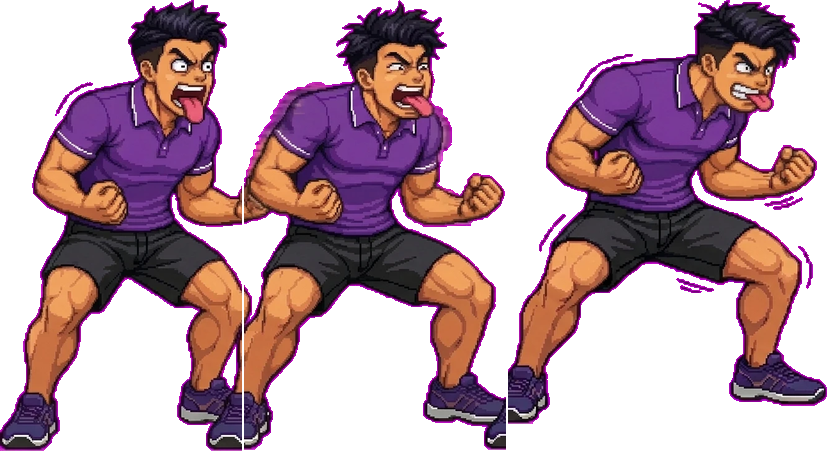
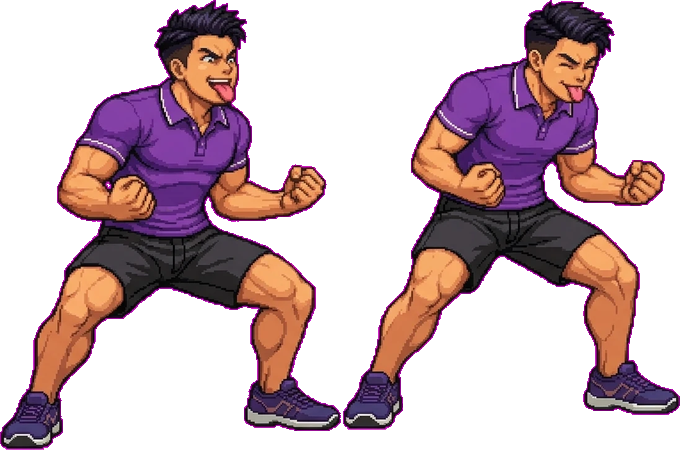
paso lunar y ajustes de Pingordy y El Fiel

diff --git a/game-v4.js b/game-v4.js
@@ -71,14 +71,14 @@ function buildKent(atlas){for(const [name,m] of Object.entries(KENT_ATLAS)){cons
 // El Fiel's ultimate: backswing/swing frames (two variants), stored at 2x game size like Kent's atlas.
 const FIEL_SUPER_ATLAS={"backA":[0,0,239,505,0.683],"swingA":[241,91,394,414,0.395],"backB":[637,120,228,385,0.578],"swingB":[867,136,369,369,0.425]};
 // Characters drawn from their own atlas (Kent, Pingordy): same pose logic, one named frame per state.
-const PING_ATLAS={"mid":[0,0,405,632,0.187],"charge":[407,0,425,485,0.47],"introB":[834,0,231,457,0.495],"airKick":[1067,0,244,439,0.509],"hurt":[1313,0,400,437,0.373],"idle":[1715,0,192,434,0.427],"win":[1909,0,398,432,0.485],"walkA":[0,634,246,429,0.537],"walkB":[248,634,260,429,0.535],"jumpDown":[510,634,246,428,0.41],"introA":[758,634,428,428,0.524],"walkC":[1188,634,191,428,0.479],"guard":[1381,634,311,413,0.453],"jumpUp":[1694,634,261,413,0.484],"punch":[1957,634,353,410,0.409],"overheadPrep":[0,1065,257,395,0.512],"superA":[259,1065,291,392,0.485],"flipSpin":[552,1065,372,391,0.489],"superB":[926,1065,299,388,0.623],"special":[1227,1065,298,365,0.453],"crouch":[1527,1065,237,354,0.478],"low":[1766,1065,224,302,0.562],"sweep":[1992,1065,343,269,0.25],"down":[0,1462,510,113,0.496]};
+const PING_ATLAS={"charge":[0,0,425,485,0.47],"mid":[427,0,301,469,0.187],"introB":[730,0,231,457,0.495],"airKick":[963,0,427,445,0.31],"moon0":[1392,0,225,438,0.599],"moon3":[1619,0,170,438,0.47],"hurt":[1791,0,400,437,0.373],"moon1":[2193,0,143,437,0.435],"moon2":[0,487,194,437,0.533],"idle":[196,487,192,434,0.427],"moon4":[390,487,222,434,0.593],"win":[614,487,398,432,0.485],"walkA":[1014,487,246,429,0.537],"walkB":[1262,487,260,429,0.535],"jumpDown":[1524,487,246,428,0.41],"introA":[1772,487,428,428,0.524],"walkC":[2202,487,191,428,0.479],"guard":[0,926,311,413,0.453],"jumpUp":[313,926,261,413,0.484],"punch":[576,926,353,410,0.409],"overheadPrep":[931,926,257,395,0.512],"superA":[1190,926,291,392,0.485],"flipSpin":[1483,926,372,391,0.489],"superB":[1857,926,299,388,0.623],"lowPunch":[0,1341,349,366,0.288],"special":[351,1341,298,365,0.453],"crouch":[651,1341,237,354,0.478],"low":[890,1341,224,302,0.562],"sweep":[1116,1341,343,269,0.25],"down":[1461,1341,510,113,0.496]};
 // Lancha's jump frames: crouch, up, dive (double jump), prone (landing after the dive), fall.
 const LJ_ATLAS={"up":[0,0,249,428,0.472],"fall":[251,0,272,403,0.55],"crouch":[525,0,232,332,0.47],"dive":[759,0,471,315,0.444],"prone":[1232,0,357,200,0.426]};
 const LC_ATLAS={"flex":[0,0,256,445,0.533],"bite":[258,0,207,441,0.441],"chew":[467,0,221,438,0.42],"ready":[690,0,241,430,0.431]};
 const IE_ATLAS={"charge":[0,0,267,686,0.493],"overheadHit":[269,0,362,606,0.59],"superB":[633,0,321,554,0.474],"flipSpin":[956,0,343,469,0.531],"introB":[1301,0,260,456,0.445],"walkB":[1563,0,256,444,0.516],"walkC":[1821,0,227,444,0.464],"walkA":[2050,0,256,440,0.517],"introA":[0,688,227,438,0.523],"idle":[229,688,300,436,0.499],"superA":[531,688,268,433,0.554],"overheadPrep":[801,688,241,431,0.463],"punch":[1044,688,345,430,0.43],"chargeA":[1391,688,287,426,0.51],"chargeB":[1680,688,361,426,0.504],"special":[2043,688,337,410,0.452],"jumpDown":[0,1128,289,403,0.53],"jumpUp":[291,1128,217,395,0.525],"hurt":[510,1128,398,378,0.411],"crouch":[910,1128,258,345,0.487],"low":[1170,1128,274,332,0.557],"sweep":[1446,1128,459,319,0.337],"down":[1907,1128,415,151,0.528]};
 // El Fiel's recharge frames (shaking squat, tongue out); stored with Lancha's recharge frames.
-const FC_ATLAS={"tremA":[0,0,242,451,0.559],"tremB":[244,0,262,450,0.459],"tremC":[508,0,319,424,0.504]};
-const SETS=[null,null,{frames:kentFrames,scale:.85,extra:{introA:1.15,introB:1.15},charge:['overheadPrep','overheadHit']},{frames:pingFrames,scale:1,extra:{introA:1.2,introB:1.2,win:1.2},charge:['introA','charge']},{frames:ieFrames,scale:1,extra:{introA:1.15,introB:1.15},charge:['chargeA','chargeB']}];
+const FC_ATLAS={"tremB":[0,0,341,450,0.522],"tremA":[343,0,337,430,0.526]};
+const SETS=[null,null,{frames:kentFrames,scale:.85,extra:{introA:1.15,introB:1.15},charge:['overheadPrep','overheadHit']},{frames:pingFrames,scale:1,extra:{introA:1.2,introB:1.2,win:1.2},charge:['introA','charge'],lowPunch:{frame:'lowPunch'}},{frames:ieFrames,scale:1,extra:{introA:1.15,introB:1.15},charge:['chargeA','chargeB']}];
 const FALLBACK={airKick:'flipSpin',flipTuck:'flipSpin',overheadHit:'punch',overheadPrep:'idle',crouchHurt:'hurt',landing:'crouch',special:'mid',superB:'superA',introB:'introA',mid:'punch',guard:'idle'};
 function resolvePose(id,name){const f=SETS[id].frames;while(!f[name]&&FALLBACK[name])name=FALLBACK[name];return name}
 function buildFielSuper(atlas){for(const [name,m] of Object.entries(FIEL_SUPER_ATLAS)){const c=document.createElement('canvas');c.width=m[2];c.height=m[3];c.getContext('2d').drawImage(atlas,m[0],m[1],m[2],m[3],0,0,m[2],m[3]);fielSuper[name]={image:c,height:m[3],anchor:m[4]}}}
@@ -274,10 +274,10 @@ function kentPose(p){const m=p.move;
  if((state==='round'||state==='match')&&p.hp>0&&p.hp===Math.max(...players.map(k=>k.hp)))return{kent:SETS[p.id].frames.win?'win':'introB'};
  if(cinematic()&&superFX.owner===p)return{kent:SETS[p.id].frames.charge?'charge':'superA'};
  if(p.action==='roll')return{kent:kentRollFrame(p)};
- if(p.action==='dash'){if(p.id===3&&SETS[3].frames.walkC){const seq=['walkA','walkC','walkB'],i=Math.floor(p.age*10)%3;return{kent:seq[p.dashDir===p.face?(3-i)%3:i]}}return{kent:Math.floor(tick*20)%2?'walkA':'walkB'}}
+ if(p.action==='dash'){if(p.id===3&&SETS[3].frames.moon0){const i=Math.floor(p.age*14)%5;return{kent:'moon'+(p.dashDir===p.face?(5-i)%5:i)}}if(p.id===3&&SETS[3].frames.walkC){const seq=['walkA','walkC','walkB'],i=Math.floor(p.age*10)%3;return{kent:seq[p.dashDir===p.face?(3-i)%3:i]}}return{kent:Math.floor(tick*20)%2?'walkA':'walkB'}}
  if(p.action==='attack'){const total=m.startup+m.active+m.recovery,preparing=p.age<m.startup*.57,recovering=p.age>total-m.recovery*.65;
   if(preparing||recovering){if(m.crouched)return{kent:'crouch'};if(p.y>0)return{kent:p.vy>0?'jumpUp':'jumpDown'};if(['overhead','charged'].includes(p.moveId)&&!recovering)return{kent:'overheadPrep'};return{kent:'idle'}}
-  if(m.frame==='punch')return{kent:'punch'};if(m.frame==='mid')return{kent:'mid'};if(m.frame==='low')return{kent:'low'};if(m.frame==='sweep')return{kent:'sweep'};if(m.frame==='air')return{kent:'airKick'};if(m.frame==='overhead')return{kent:'overheadHit'};
+  if(m.frame==='punch')return{kent:'punch'};if(m.frame==='mid')return{kent:'mid'};if(m.frame==='low'){const lp=SETS[p.id].lowPunch;return lp?{kent:lp.frame,sy:lp.squash}:{kent:'low'}}if(m.frame==='sweep')return{kent:'sweep'};if(m.frame==='air')return{kent:'airKick'};if(m.frame==='overhead')return{kent:'overheadHit'};
   return{kent:p.moveId==='super'?(Math.floor(p.age*9)%2?'superB':'superA'):'special'}}
  if(p.action==='hurt')return{kent:p.crouched?'crouchHurt':'hurt'};if(p.action==='down')return{kent:'down'};
  if(p.landTime>0)return{kent:'landing'};if(p.guard&&!p.crouched)return{kent:'guard'};if(p.crouched||p.stance>.5)return{kent:'crouch'};
@@ -290,12 +290,12 @@ function lanchaJumpPose(p){if(state!=='fight')return null;if(p.proneTime>0)retur
  if(p.landTime>0&&p.action==='idle'&&p.y===0)return{lj:'crouch'};return null}
 // Recharge pose per character: Lancha eats a burger (own frames), Pingordy/Kent alternate their power-up frames, El Fiel flexes.
 function chargePose(p){if(p.id===0&&lcFrames.ready){const t=Math.max(0,p.age-.25)%1.3;return{lc:p.age<.25?'ready':t<.4?'bite':t<.8?'chew':'flex'}}
- if(p.id===1&&lcFrames.tremA)return{lc:['tremA','tremB','tremC','tremB'][p.age<.3?0:Math.floor(p.age*8)%4]};
+ if(p.id===1&&lcFrames.tremA)return{lc:['tremA','tremB'][p.age<.3?0:Math.floor(p.age*6)%2]};
  if(p.id===1)return{show:p.age<.3?2:(Math.floor((p.age-.3)*2.5)%2?2:3),scale:.82};
  const c=SETS[p.id]&&SETS[p.id].charge;if(c)return{kent:resolvePose(p.id,c[Math.floor(p.age*3)%2]),scale:1};return null}
 function pose(p){if(p.action==='charge'){const w=chargePose(p);if(w)return w}if(p.id===1&&p.action==='attack'&&p.moveId==='super'&&fielSuper.backA){const w=fielSuperPose(p);if(w)return w}if(SETS[p.id]&&SETS[p.id].frames.idle){const w=kentPose(p);w.kent=resolvePose(p.id,w.kent);return w}if(p.id===0&&ljFrames.up){const w=lanchaJumpPose(p);if(w)return w}if(state==='intro'&&phaseTime>.9)return{show:2+(Math.floor(introElapsed*(p.id?1.4:2.2))%2)};if((state==='round'||state==='match')&&p.hp>0&&p.hp===Math.max(...players.map(k=>k.hp)))return{show:3};if(p.action==='ko')return{base:5};if(cinematic()&&superFX.owner===p)return{follow:3};if(p.action==='attack'){const m=p.move;const total=m.startup+m.active+m.recovery;const preparing=p.age<m.startup*.57,recovering=p.age>total-m.recovery*.65;if(preparing||recovering){if(m.crouched)return{extra:0};if(p.y>0)return{show:p.vy>0?0:1};if(['overhead','charged'].includes(p.moveId)&&!recovering)return{follow:0};return{base:0}}if(m.frame==='punch')return{base:2};if(m.frame==='mid')return{extra:3};if(m.frame==='low')return{extra:1};if(m.frame==='sweep')return{extra:2};if(m.frame==='air')return{extra:4};if(m.frame==='overhead')return{extra:5};if(Math.floor(p.age*9)%2===1)return{follow:3};return{base:4}}
  if(p.action==='throwing')return throwerAt(p).pose;if(p.action==='dizzy'||p.action==='bounce')return{base:5};if(p.action==='thrown')return p.age<(p.throwBy?.14:.25)?{follow:1}:{base:5};if(p.action==='roll')return p.id===0?(rollSprites.length?{roll:rollFrame(p)}:{extra:0}):(fielRoll.length?{fiel:fielFrame(p)}:{show:0});if(p.action==='dash')return{base:Math.floor(tick*20)%2};if(p.action==='hurt')return p.crouched?{follow:1}:{base:5};if(p.action==='down')return{base:5};if(p.landTime>0)return{follow:2};if(p.crouched||p.stance>.5)return{extra:0};if(p.y>0)return{show:p.vy>0?0:1};return{base:p.walk?Math.floor(tick*9)%2:0};}
-function drawFighter(p,ghost=0){if(!sprites.length)return;const which=pose(p),usingExtra=which.extra!==undefined,usingFollow=which.follow!==undefined,usingShow=which.show!==undefined,usingRoll=which.roll!==undefined,usingFiel=which.fiel!==undefined,usingKent=which.kent!==undefined,usingFsup=which.fsup!==undefined,usingLj=which.lj!==undefined,usingLc=which.lc!==undefined;let im,h,w,anchor=.5;if(usingKent){const s=SETS[p.id].frames[which.kent];im=s.image;h=s.height/2*SETS[p.id].scale*(which.scale||SETS[p.id].extra[which.kent]||1);w=im.width/im.height*h;anchor=s.anchor}else if(usingFsup){const s=fielSuper[which.fsup];im=s.image;h=s.height/2;w=im.width/im.height*h;anchor=s.anchor}else if(usingLj){const s=ljFrames[which.lj];im=s.image;h=s.height/2;w=im.width/im.height*h;anchor=s.anchor}else if(usingLc){const s=lcFrames[which.lc];im=s.image;h=s.height/2;w=im.width/im.height*h;anchor=s.anchor}else if(usingRoll){const s=rollSprites[which.roll];im=s.image;h=s.height/400*235*1.15;w=im.width/im.height*h}else if(usingFiel){const s=fielRoll[which.fiel];im=s.image;h=s.height*fielRollK;w=im.width/im.height*h}else if(usingExtra||usingFollow||usingShow){const s=usingShow?showSprites[p.id*4+which.show]:usingFollow?followSprites[p.id*4+which.follow]:extraSprites[p.id*6+which.extra];im=s.image;h=s.height/400*235*(which.scale||1);w=im.width/im.height*h;if(which.extra===1)anchor=.4;if(which.extra===2||which.extra===3||which.extra===4)anchor=.37;}else{im=sprites[p.id*6+which.base];h=258;w=im.width/im.height*h;anchor=which.base===2?.39:.5;}
+function drawFighter(p,ghost=0){if(!sprites.length)return;const which=pose(p),usingExtra=which.extra!==undefined,usingFollow=which.follow!==undefined,usingShow=which.show!==undefined,usingRoll=which.roll!==undefined,usingFiel=which.fiel!==undefined,usingKent=which.kent!==undefined,usingFsup=which.fsup!==undefined,usingLj=which.lj!==undefined,usingLc=which.lc!==undefined;let im,h,w,anchor=.5;if(usingKent){const s=SETS[p.id].frames[which.kent];im=s.image;h=s.height/2*SETS[p.id].scale*(which.scale||SETS[p.id].extra[which.kent]||1);w=im.width/im.height*h;if(which.sy)h*=which.sy;anchor=s.anchor}else if(usingFsup){const s=fielSuper[which.fsup];im=s.image;h=s.height/2;w=im.width/im.height*h;anchor=s.anchor}else if(usingLj){const s=ljFrames[which.lj];im=s.image;h=s.height/2;w=im.width/im.height*h;anchor=s.anchor}else if(usingLc){const s=lcFrames[which.lc];im=s.image;h=s.height/2;w=im.width/im.height*h;anchor=s.anchor}else if(usingRoll){const s=rollSprites[which.roll];im=s.image;h=s.height/400*235*1.15;w=im.width/im.height*h}else if(usingFiel){const s=fielRoll[which.fiel];im=s.image;h=s.height*fielRollK;w=im.width/im.height*h}else if(usingExtra||usingFollow||usingShow){const s=usingShow?showSprites[p.id*4+which.show]:usingFollow?followSprites[p.id*4+which.follow]:extraSprites[p.id*6+which.extra];im=s.image;h=s.height/400*235*(which.scale||1);w=im.width/im.height*h;if(which.extra===1)anchor=.4;if(which.extra===2||which.extra===3||which.extra===4)anchor=.37;}else{im=sprites[p.id*6+which.base];h=258;w=im.width/im.height*h;anchor=which.base===2?.39:.5;}
  const bob=p.action==='idle'&&!p.crouched?Math.sin(tick*5)*2:0;ctx.save();ctx.translate(Math.round(p.x),Math.round(FLOOR-p.y+bob));ctx.scale(p.face,1);
  if(state==='intro'&&phaseTime>.9){if(p.id===0){ctx.rotate(Math.sin(introElapsed*14)*.025);ctx.translate(0,Math.sin(introElapsed*14)*1.5)}else ctx.scale(1+Math.sin(introElapsed*4)*.012,1)}
  if(p.action!=='ko'){const st=p.landTime>0?p.landTime/.12:0,air=p.y>0?Math.min(.07,Math.abs(p.vy)/520*.07):0;ctx.scale(1+st*.1-air*.7,1-st*.12+air)}

diff --git a/docs/ARTE.md b/docs/ARTE.md
@@ -74,9 +74,9 @@ Tamaños: los sprites de Lancha y El Fiel tienen margen vacío arriba, así que 
 
 Cuarto personaje, a partir de 16 imágenes con fondo magenta (carpeta de referencia con el cuerpo completo y 15 hojas de poses). Se recortaron fuera del juego, se separaron los cuadros (la hoja de la ulti se cortó en cuatro por columnas fijas) y se igualó el tamaño entre hojas ajustando por la cabeza y a ojo. Quedan 23 cuadros en `assets/pingordy.png`, con las posiciones en `PING_ATLAS` de `game-v4.js`. `assets/pingordy-face.png` es el retrato del menú.
 
-Asignación: reposo y caminar (idle, walk), puño (golpe alto), patada media y especial (medialuna y destello), golpe bajo y patada baja, agachado, defensa, golpeado, caído, salto y caída, presentación (carga de energía) y victoria, ulti (corrida y patada con explosión rosa) y rodada (tornado). Sin usar: dos cuadros de la ulti con notas musicales y estela, y el cuadro de la caída hacia atrás.
+Asignación: reposo y caminar (idle, walk), puño (golpe alto), patada media y especial (medialuna y destello), golpe bajo y patada baja, agachado, defensa, golpeado, caído, salto y caída, presentación (carga de energía) y victoria, ulti (corrida y patada con explosión rosa) y rodada (tornado). Sin usar: dos cuadros de la ulti con notas musicales y estela, y el cuadro de la caída hacia atrás. La patada aérea (tercer cuadro de la ulti) se volvió a recortar con la pierna completa: su zapato llegaba hasta la zona del cuadro siguiente y se había cortado; para separarlo de la explosión roja se conservó solo la parte oscura (pantalón y zapato) y la estela rosa.
 
-Faltan poses y usan la más cercana: el golpe descendente usa el puño, el agachado golpeado usa el golpeado, y el aterrizaje usa el agachado.
+El puño agachado de Pingordy (S + puño) usa su propio cuadro, en cuclillas con el puño extendido (`lowPunch` del atlas). Faltan poses y usan la más cercana: el golpe descendente usa el puño, el agachado golpeado usa el golpeado, y el aterrizaje usa el agachado.
 
 ---
 
@@ -88,7 +88,7 @@ Faltan poses y usan la más cercana: el golpe descendente usa el puño, el agach
 
 # Paso lunar de Pingordy
 
-El dash de Pingordy no usa cuadros nuevos: reutiliza los tres pasos de caminar (`walkA`, `walkC`, `walkB`, el segundo se añadió al atlas). Se desliza más lento que el dash normal, mirando al rival, con los pasos en orden normal al ir hacia atrás y al revés al ir hacia delante, una leve inclinación hacia atrás, un pequeño rebote y estela. Los valores propios están en `DASH_CHAR` de `game-v4.js`. Para un paso lunar más fiel haría falta una hoja con la punta del pie y el pie plano alternados.
+El dash de Pingordy usa cinco cuadros propios de paso lunar (`moon0` a `moon4`, de una hoja con las piernas cruzándose); si faltaran, cae a los tres pasos de caminar (`walkA`, `walkC`, `walkB`). Se desliza más lento que el dash normal, mirando al rival, con los pasos en orden normal al ir hacia atrás y al revés al ir hacia delante, una leve inclinación hacia atrás, un pequeño rebote y estela. Los valores propios están en `DASH_CHAR` de `game-v4.js`. Los dos primeros cuadros de la hoja se tocaban por los zapatos y se separaron con un corte vertical.
 
 # Estándar de poses
 
@@ -100,7 +100,7 @@ El archivo `D:\imagenes videojuego\Movimimientos standar.txt` define el conjunto
 
 `assets/lancha-charge.png` trae cuatro cuadros recortados de una hoja con fondo magenta: agarra la hamburguesa, muerde, mastica con la mano en la barriga y sube los brazos con destellos. Durante la recarga se muestra primero el primero y luego se repiten morder, masticar y subir los brazos. Posiciones en `LC_ATLAS` de `game-v4.js`.
 
-Kent usa sus dos cuadros de puños con grito (los mismos del golpe descendente) y Pingordy sus dos cuadros de carga con llamas y aura (los mismos de la presentación). El Fiel usa tres cuadros propios (`assets/fiel-charge.png`): temblando en cuclillas con los puños, con la lengua afuera y de lado; se repiten en bucle (1, 2, 3, 2). Los dos primeros se tocaban en la imagen original y se cortaron por columnas, así que los zapatos que se juntan quedan un poco recortados. Con la barra llena la animación continúa mientras se mantiene el botón. El aura y las partículas se dibujan por código con el color de cada personaje.
+Kent usa sus dos cuadros de puños con grito (los mismos del golpe descendente) y Pingordy sus dos cuadros de carga con llamas y aura (los mismos de la presentación). El Fiel usa dos cuadros propios (`assets/fiel-charge.png`): en cuclillas con los puños y la lengua afuera, uno con los ojos cerrados y otro riendo; se alternan unas 6 veces por segundo. Sustituyen a una primera versión de tres cuadros cuyos zapatos se tocaban y quedaban recortados. Con la barra llena la animación continúa mientras se mantiene el botón. El aura y las partículas se dibujan por código con el color de cada personaje.
 
 ---
 
